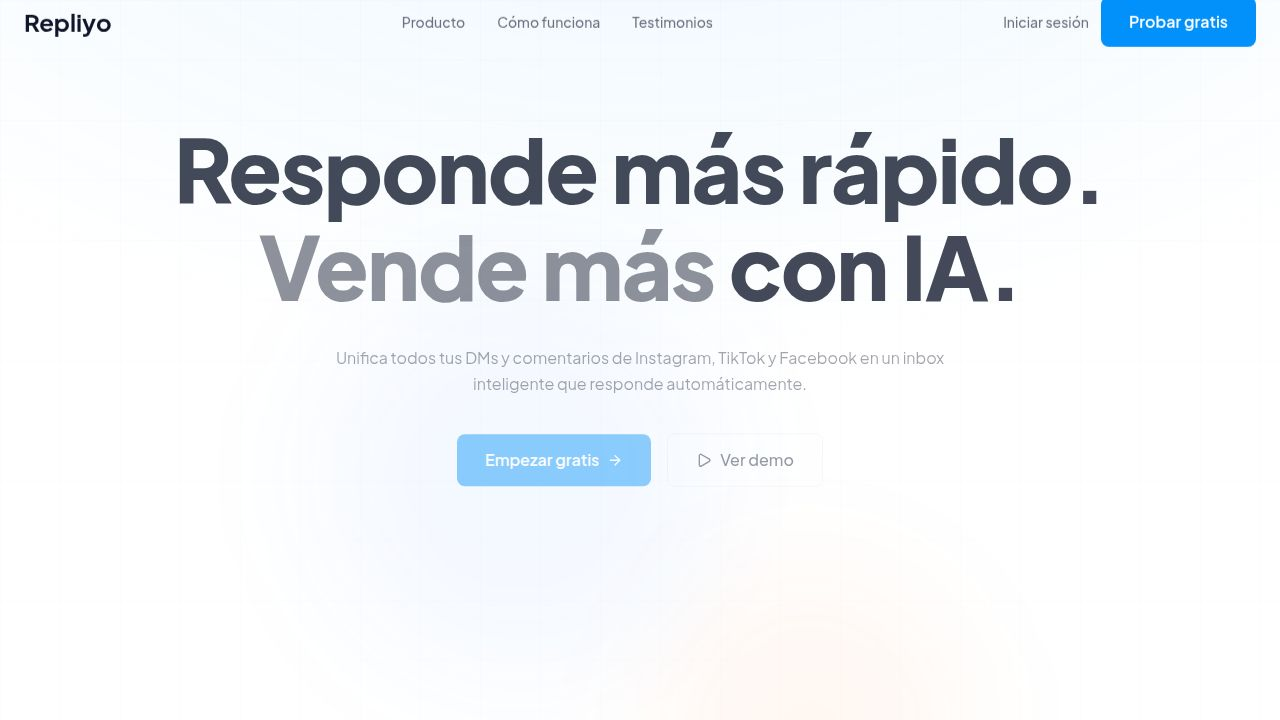
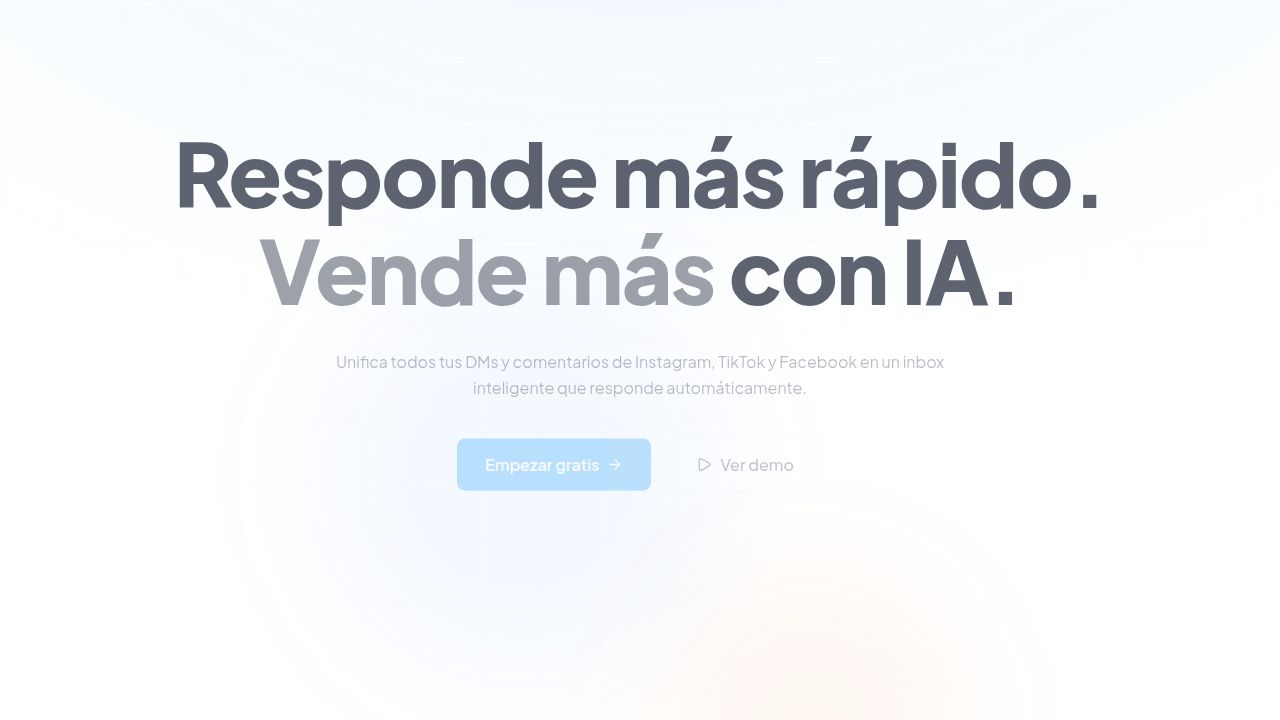
Update application navigation and documentation for improved user experience
Implement legacy URL redirects, update navigation links in sidebar and bottom navigation, and adjust logout functionality to redirect to the landing page. Documentation is updated to reflect the new URL structure and navigation checklist.

Replit-Commit-Author: Agent
Replit-Commit-Session-Id: 69e08a57-4ea0-4074-afe3-2bdb97720671
Replit-Commit-Checkpoint-Type: full_checkpoint
Replit-Commit-Event-Id: 9e62b8bd-93d1-4336-b4d5-5020371b3f07
Replit-Commit-Screenshot-Url: https://storage.googleapis.com/screenshot-production-us-central1/6fbe81c6-b52e-47f2-9930-5e9300c58e42/69e08a57-4ea0-4074-afe3-2bdb97720671/kGAnNOT

diff --git a/client/src/App.tsx b/client/src/App.tsx
@@ -65,12 +65,30 @@ function HomeRoute() {
   return <LandingPage />;
 }
 
+function LegacyRedirect({ newPath }: { newPath: string }) {
+  const [, setLocation] = useLocation();
+  useEffect(() => {
+    setLocation(newPath);
+  }, [setLocation, newPath]);
+  return null;
+}
+
 function Router() {
   return (
     <Switch>
       {/* Public routes */}
       <Route path="/" component={HomeRoute} />
       <Route path="/login" component={Login} />
+      
+      {/* Legacy URL redirects (for old bookmarks) */}
+      <Route path="/inbox">{() => <LegacyRedirect newPath="/app/inbox" />}</Route>
+      <Route path="/crm">{() => <LegacyRedirect newPath="/app/crm" />}</Route>
+      <Route path="/overview">{() => <LegacyRedirect newPath="/app/overview" />}</Route>
+      <Route path="/connections">{() => <LegacyRedirect newPath="/app/connections" />}</Route>
+      <Route path="/integrations">{() => <LegacyRedirect newPath="/app/integrations" />}</Route>
+      <Route path="/settings">{() => <LegacyRedirect newPath="/app/settings" />}</Route>
+      <Route path="/ai-metrics">{() => <LegacyRedirect newPath="/app/ai-metrics" />}</Route>
+      <Route path="/profile">{() => <LegacyRedirect newPath="/app/profile" />}</Route>
       
       {/* Authenticated routes under /app */}
       <Route path="/app/connections">

diff --git a/client/src/components/Inbox.tsx b/client/src/components/Inbox.tsx
@@ -499,7 +499,7 @@ export function Inbox() {
       setTimeout(() => setHighlightedConversationId(null), 3000);
       
       // Clear URL params immediately
-      window.history.replaceState({}, '', '/inbox');
+      window.history.replaceState({}, '', '/app/inbox');
     }
   }, []);
 

diff --git a/client/src/context/AuthContext.tsx b/client/src/context/AuthContext.tsx
@@ -51,7 +51,7 @@ export const AuthProvider = ({ children }: { children: ReactNode }) => {
         credentials: 'include',
       });
       setUser(null);
-      window.location.href = '/login';
+      window.location.href = '/';
     } catch (error) {
       console.error('Logout failed:', error);
     }

diff --git a/DOCUMENTACION_COMPLETA.md b/DOCUMENTACION_COMPLETA.md
@@ -8654,6 +8654,60 @@ password: text("password").notNull(),  // ← Bloquea usuarios OAuth
 
 ---
 
+### Estructura de URLs (Actualizado 10-Ene-2026)
+
+**Patrón SaaS estándar implementado:**
+
+| Ruta | Tipo | Descripción |
+|------|------|-------------|
+| `/` | Pública | Landing page (Repliyo.com). Usuarios autenticados son redirigidos a `/app/inbox` |
+| `/login` | Pública | Página de login (email/password + OAuth) |
+| `/app/inbox` | Autenticada | Smart Inbox (vista principal) |
+| `/app/overview` | Autenticada | Dashboard de métricas |
+| `/app/crm` | Autenticada | CRM de contactos |
+| `/app/connections` | Autenticada | Conexiones de marcas |
+| `/app/integrations` | Autenticada | Integraciones de terceros |
+| `/app/settings` | Autenticada | Configuración del agente IA |
+| `/app/ai-metrics` | Autenticada | Métricas de IA |
+| `/app/profile` | Autenticada | Perfil de usuario |
+
+**Redirects Legacy (para bookmarks antiguos):**
+- `/inbox` → `/app/inbox`
+- `/crm` → `/app/crm`
+- `/overview` → `/app/overview`
+- `/connections` → `/app/connections`
+- `/integrations` → `/app/integrations`
+- `/settings` → `/app/settings`
+- `/ai-metrics` → `/app/ai-metrics`
+- `/profile` → `/app/profile`
+
+---
+
+### Checklist de Navegación y Redirecciones (10-Ene-2026)
+
+| Flujo | Origen | Destino | Estado |
+|-------|--------|---------|--------|
+| Login exitoso (email/password) | `/login` | `/app/inbox` | ✅ Verificado |
+| Login exitoso (OAuth) | `/api/callback` | `/app/inbox` | ✅ Verificado |
+| Logout (legacy) | Sidebar | `/` (landing) | ✅ Verificado |
+| Logout (OAuth) | `/api/logout` | `/` (landing) | ✅ Verificado |
+| Sesión expirada (401) | Cualquier página | `/login` | ✅ Verificado |
+| Usuario autenticado visita `/` | `/` | `/app/inbox` | ✅ Verificado |
+| Usuario no autenticado visita `/app/*` | `/app/*` | `/login` | ✅ Verificado |
+| Deep link conversación | Notificación | `/app/inbox?conversationId=...` | ✅ Verificado |
+| Bookmark legacy `/inbox` | Enlace externo | `/app/inbox` | ✅ Verificado |
+
+**Archivos modificados:**
+- `client/src/App.tsx` - Rutas y componentes HomeRoute, LegacyRedirect
+- `client/src/components/Sidebar.tsx` - Links de navegación
+- `client/src/components/BottomNav.tsx` - Links de navegación móvil
+- `client/src/pages/Login.tsx` - Redirect post-login
+- `client/src/context/AuthContext.tsx` - Logout redirect a `/`
+- `client/src/components/Inbox.tsx` - Deep link URL cleanup
+- `server/replit_integrations/auth/replitAuth.ts` - OAuth callback redirect
+
+---
+
 ### Arquitectura de Autenticación Post-Implementación
 
 ```